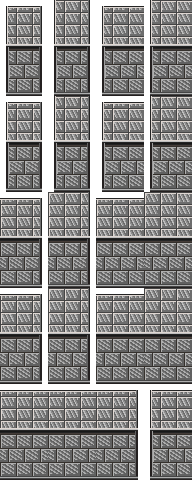
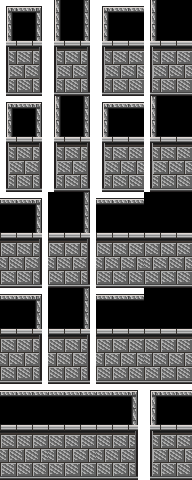
[gemini] AR-104 AR-300 black top walls bordered by material

diff --git a/tools/build_cave_style_walls.js b/tools/build_cave_style_walls.js
@@ -145,7 +145,8 @@ function buildWoodSet() {
         postDark: snapHex('#2C1402'),
         
         baseTrim: snapHex('#452308'),
-        baseEdge: snapHex('#241103')
+        baseEdge: snapHex('#241103'),
+        black: snapHex('#000000')
     };
 
     function drawWoodTopFace(f, mask) {
@@ -154,57 +155,79 @@ function buildWoodSet() {
         const hasS = !!(mask & 4);
         const hasW = !!(mask & 8);
 
-        // Standard Top Face bounds
-        // If isolated (mask===0): 32x32 center cap at x=8..39, y=8..39
-        // If connecting: expands towards connections
         const xMin = hasW ? 0 : 6;
         const xMax = hasE ? 47 : 41;
         const yMin = hasN ? 0 : 6;
-        const yMax = 45; // South edge of top face sits at y=45
+        const yMax = 46;
 
         for (let y = yMin; y <= yMax; y++) {
             for (let x = xMin; x <= xMax; x++) {
-                // Horizontal plank grain on top deck
-                const plankY = y % 8;
-                let col = C.topBody;
-                if (plankY === 0) col = C.topGroove;
-                else if (plankY === 1) col = C.topHigh;
-                else if (plankY >= 6) col = C.topShade;
-                else {
-                    const n = ((x * 7 + y * 13) % 11) / 11;
-                    col = n > 0.7 ? C.topHigh : (n < 0.3 ? C.topShade : C.topBody);
+                // 1. South coping lip (y=41..46) across full width from xMin to xMax
+                if (y >= 41) {
+                    if (y === 41) {
+                        setPixel(f, x, y, C.topHigh);
+                    } else if (y === 42) {
+                        setPixel(f, x, y, C.topLip);
+                    } else if (y === 43) {
+                        setPixel(f, x, y, C.topHigh);
+                    } else if (y === 44) {
+                        setPixel(f, x, y, C.topLip);
+                    } else if (y === 45) {
+                        setPixel(f, x, y, C.topBody);
+                    } else if (y === 46) {
+                        setPixel(f, x, y, C.topEdgeDark);
+                    }
+                    continue;
                 }
-                setPixel(f, x, y, col);
-            }
-        }
 
-        // Top Face outer borders & bevels
-        // North border
-        if (!hasN) {
-            for (let x = xMin; x <= xMax; x++) {
-                setPixel(f, x, yMin, C.topEdgeDark);
-                setPixel(f, x, yMin + 1, C.topHigh);
+                // 2. Outer borders on non-connecting edges:
+                const isNorthBorder = !hasN && (y <= yMin + 5);
+                const isWestBorder = !hasW && (x <= xMin + 5);
+                const isEastBorder = !hasE && (x >= xMax - 5);
+
+                if (isNorthBorder || isWestBorder || isEastBorder) {
+                    // Outer edge outline
+                    const isOuter = (!hasN && y === yMin) || (!hasW && x === xMin) || (!hasE && x === xMax);
+                    if (isOuter) {
+                        setPixel(f, x, y, C.topEdgeDark);
+                        continue;
+                    }
+                    // Outer highlight line on North / West
+                    const isHigh = (!hasN && y === yMin + 1) || (!hasW && x === xMin + 1);
+                    if (isHigh) {
+                        setPixel(f, x, y, C.topHigh);
+                        continue;
+                    }
+                    // East edge shading
+                    if (!hasE && x === xMax - 1) {
+                        setPixel(f, x, y, C.topShade);
+                        continue;
+                    }
+                    // Inner bevel groove into black interior
+                    const isInnerGroove = (!hasN && y === yMin + 5) || (!hasW && x === xMin + 5) || (!hasE && x === xMax - 5);
+                    if (isInnerGroove) {
+                        setPixel(f, x, y, C.topGroove);
+                        continue;
+                    }
+                    // Body of timber beam rim
+                    const grain = ((x * 7 + y * 13) % 11) / 11;
+                    const col = grain > 0.65 ? C.topHigh : (grain < 0.35 ? C.topShade : C.topBody);
+                    setPixel(f, x, y, col);
+                    continue;
+                }
+
+                // 3. Black Interior with 1px inner drop shadow
+                const nearNorth = !hasN && (y === yMin + 6);
+                const nearWest = !hasW && (x === xMin + 6);
+                const nearEast = !hasE && (x === xMax - 6);
+                const nearSouth = (y === 40);
+
+                if (nearNorth || nearWest || nearEast || nearSouth) {
+                    setPixel(f, x, y, C.shadowDeep);
+                } else {
+                    setPixel(f, x, y, C.black);
+                }
             }
-        }
-        // West border
-        if (!hasW) {
-            for (let y = yMin; y <= yMax; y++) {
-                setPixel(f, xMin, y, C.topEdgeDark);
-                setPixel(f, xMin + 1, y, C.topHigh);
-            }
-        }
-        // East border
-        if (!hasE) {
-            for (let y = yMin; y <= yMax; y++) {
-                setPixel(f, xMax, y, C.topEdgeDark);
-                setPixel(f, xMax - 1, y, C.topShade);
-            }
-        }
-        // South coping lip (y=44..46): The overhang lip seen across the front!
-        for (let x = xMin; x <= xMax; x++) {
-            setPixel(f, x, 44, C.topHigh);
-            setPixel(f, x, 45, C.topLip);
-            setPixel(f, x, 46, C.topEdgeDark);
         }
     }
 
@@ -334,7 +357,8 @@ function buildStoneSet() {
         cornerHigh: snapHex('#9E9E96'),
         
         baseTrim: snapHex('#40403C'),
-        baseEdge: snapHex('#1E1E1A')
+        baseEdge: snapHex('#1E1E1A'),
+        black: snapHex('#000000')
     };
 
     function drawStoneTopFace(f, mask) {
@@ -346,49 +370,80 @@ function buildStoneSet() {
         const xMin = hasW ? 0 : 6;
         const xMax = hasE ? 47 : 41;
         const yMin = hasN ? 0 : 6;
-        const yMax = 45;
+        const yMax = 46;
 
         for (let y = yMin; y <= yMax; y++) {
             for (let x = xMin; x <= xMax; x++) {
-                // Flat chiseled stone block paving on top face (like cave ledge in Dungeon_A4)
-                const isBlockSeamX = (x % 16 === 0);
-                const isBlockSeamY = (y % 12 === 0);
-                let col = C.topBody;
-                if (isBlockSeamX || isBlockSeamY) col = C.topGroove;
-                else if (x % 16 === 1 || y % 12 === 1) col = C.topHigh;
-                else if (x % 16 >= 14 || y % 12 >= 10) col = C.topShade;
-                else {
-                    const n = ((x * 13 + y * 19) % 17) / 17;
-                    col = n > 0.7 ? C.topLight : (n < 0.3 ? C.topShade : C.topBody);
+                // 1. South stone coping lip (y=41..46) across full width from xMin to xMax
+                if (y >= 41) {
+                    const isMortar = (x % 16 === 0);
+                    if (isMortar) {
+                        setPixel(f, x, y, C.mortarLine);
+                    } else if (y === 41) {
+                        setPixel(f, x, y, C.topHigh);
+                    } else if (y === 42) {
+                        setPixel(f, x, y, C.topLight);
+                    } else if (y === 43) {
+                        setPixel(f, x, y, C.topBody);
+                    } else if (y === 44) {
+                        setPixel(f, x, y, C.topLight);
+                    } else if (y === 45) {
+                        setPixel(f, x, y, C.topShade);
+                    } else if (y === 46) {
+                        setPixel(f, x, y, C.topEdgeDark);
+                    }
+                    continue;
                 }
-                setPixel(f, x, y, col);
-            }
-        }
 
-        // Top Face outer borders & chiseled bevels
-        if (!hasN) {
-            for (let x = xMin; x <= xMax; x++) {
-                setPixel(f, x, yMin, C.topEdgeDark);
-                setPixel(f, x, yMin + 1, C.topHigh);
+                // 2. Outer coping stone borders on non-connecting edges:
+                const isNorthBorder = !hasN && (y <= yMin + 5);
+                const isWestBorder = !hasW && (x <= xMin + 5);
+                const isEastBorder = !hasE && (x >= xMax - 5);
+
+                if (isNorthBorder || isWestBorder || isEastBorder) {
+                    const isOuter = (!hasN && y === yMin) || (!hasW && x === xMin) || (!hasE && x === xMax);
+                    if (isOuter) {
+                        setPixel(f, x, y, C.topEdgeDark);
+                        continue;
+                    }
+                    const isHigh = (!hasN && y === yMin + 1) || (!hasW && x === xMin + 1);
+                    if (isHigh) {
+                        setPixel(f, x, y, C.topHigh);
+                        continue;
+                    }
+                    if (!hasE && x === xMax - 1) {
+                        setPixel(f, x, y, C.topShade);
+                        continue;
+                    }
+                    const isInnerGroove = (!hasN && y === yMin + 5) || (!hasW && x === xMin + 5) || (!hasE && x === xMax - 5);
+                    if (isInnerGroove) {
+                        setPixel(f, x, y, C.topGroove);
+                        continue;
+                    }
+                    // Chiseled ashlar stone texture
+                    const isBlockJoint = (!hasN && (x % 16 === 0)) || ((!hasW || !hasE) && (y % 12 === 0));
+                    if (isBlockJoint) {
+                        setPixel(f, x, y, C.topGroove);
+                        continue;
+                    }
+                    const n = ((x * 13 + y * 19) % 17) / 17;
+                    const col = n > 0.7 ? C.topLight : (n < 0.3 ? C.topShade : C.topBody);
+                    setPixel(f, x, y, col);
+                    continue;
+                }
+
+                // 3. Black Interior with 1px inner drop shadow
+                const nearNorth = !hasN && (y === yMin + 6);
+                const nearWest = !hasW && (x === xMin + 6);
+                const nearEast = !hasE && (x === xMax - 6);
+                const nearSouth = (y === 40);
+
+                if (nearNorth || nearWest || nearEast || nearSouth) {
+                    setPixel(f, x, y, C.shadowDeep);
+                } else {
+                    setPixel(f, x, y, C.black);
+                }
             }
-        }
-        if (!hasW) {
-            for (let y = yMin; y <= yMax; y++) {
-                setPixel(f, xMin, y, C.topEdgeDark);
-                setPixel(f, xMin + 1, y, C.topHigh);
-            }
-        }
-        if (!hasE) {
-            for (let y = yMin; y <= yMax; y++) {
-                setPixel(f, xMax, y, C.topEdgeDark);
-                setPixel(f, xMax - 1, y, C.topShade);
-            }
-        }
-        // South coping stone lip (y=44..46)
-        for (let x = xMin; x <= xMax; x++) {
-            setPixel(f, x, 44, C.topHigh);
-            setPixel(f, x, 45, C.topLight);
-            setPixel(f, x, 46, C.topEdgeDark);
         }
     }
 

diff --git a/docs/STATUS.md b/docs/STATUS.md
@@ -5,6 +5,30 @@ Update this whenever reality changes. Write only what you've checked, and say ho
 **Last updated:** 2026-09-19
 **Current slice:** Slice 0 (IN PROGRESS since 2026-09-18)
 
+## Black-Top Cave-Style Walls (AR-104 & AR-300) — 2026-09-19 (Gemini)
+
+Delivered per user directive ("I do want the tops of walls to be black though. Not like a black square, but black bordered by material"):
+- **Authentic Black-Top Wall Architecture:**
+  - Updated `tools/build_cave_style_walls.js` for both Wood and Stone two-tile-high wall sets:
+    - **Top Face (y = 0..46):**
+      - Outer non-connecting edges (`!hasN`, `!hasW`, `!hasE`) feature a 6-pixel wide material rim (timber beams for wood; dressed ashlar coping stones for stone) with dark outer edge outline and bright top highlight catch-lights.
+      - South coping lip (y = 41..46) runs across the full front width with multi-toned bevel and lower edge overhang.
+      - Connecting edges (`hasN`, `hasW`, `hasE`) leave the rim and interior open so adjacent tiles connect with zero seams.
+      - Interior center is solid black (`#000000`) with a 1-pixel inner drop shadow (`shadowDeep`) along the inside of the rim for authentic retro RPG ceiling cavity depth (matching `Dungeon_A4.png` block 6,2).
+    - **Front Wall Face (y = 47..95):**
+      - 3-pixel cast shadow directly below the south coping lip, followed by vertical wall face (vertical planks with iron bolts for wood; 3 staggered courses of ashlar masonry for stone) and sturdy foundation baseboard.
+  - Deployed to:
+    - `game/img/characters/!$WallWood_Set.png` & `art/masters/!$WallWood_Set.png` (sidecars `!$WallWood_Set.json`)
+    - `game/img/characters/!$WallStone_Set.png` & `art/masters/!$WallStone_Set.png` (sidecars `!$WallStone_Set.json`)
+- **Automated Verification:**
+  - `tools/art_check.js --native`: PASS (Wood: 12 colors, Stone: 15 colors, both ≤ 32 limit, 100% binary alpha, valid sidecars).
+  - `tools/originality_check.js`: PASS (closest distance 0.373 to 0.437 >= 0.28 vs 19,431 U7 shapes, 0 FAIL, 0 WARN).
+  - `tools/run_tests.js walls`: PASS (3/3 checks pass, exit 0).
+  - `tools/run_tests.js smoke`: PASS (9/9 checks pass, exit 0, 0 console errors).
+- **Visual Inspection (Rule 5):**
+  - `art/review/black_top_walls_review.png`: Visual review showing isolated pillars, seamless 3-tile horizontal runs, and vertical runs in both wood and stone styles. Tops show crisp material borders enclosing the deep black void; front faces show cast shadows and foundation footers.
+  - `game/test_output/smoke.map.png`: In-engine live test screenshot on active map.
+
 ## Authentic Matching Faction Menu Themes & Custom Selection Cursors (AR-1740 to AR-1750) — 2026-09-19 (Gemini)
 
 Delivered per user directive ("Those are pretty good, Lets create a matching menu for each"):
